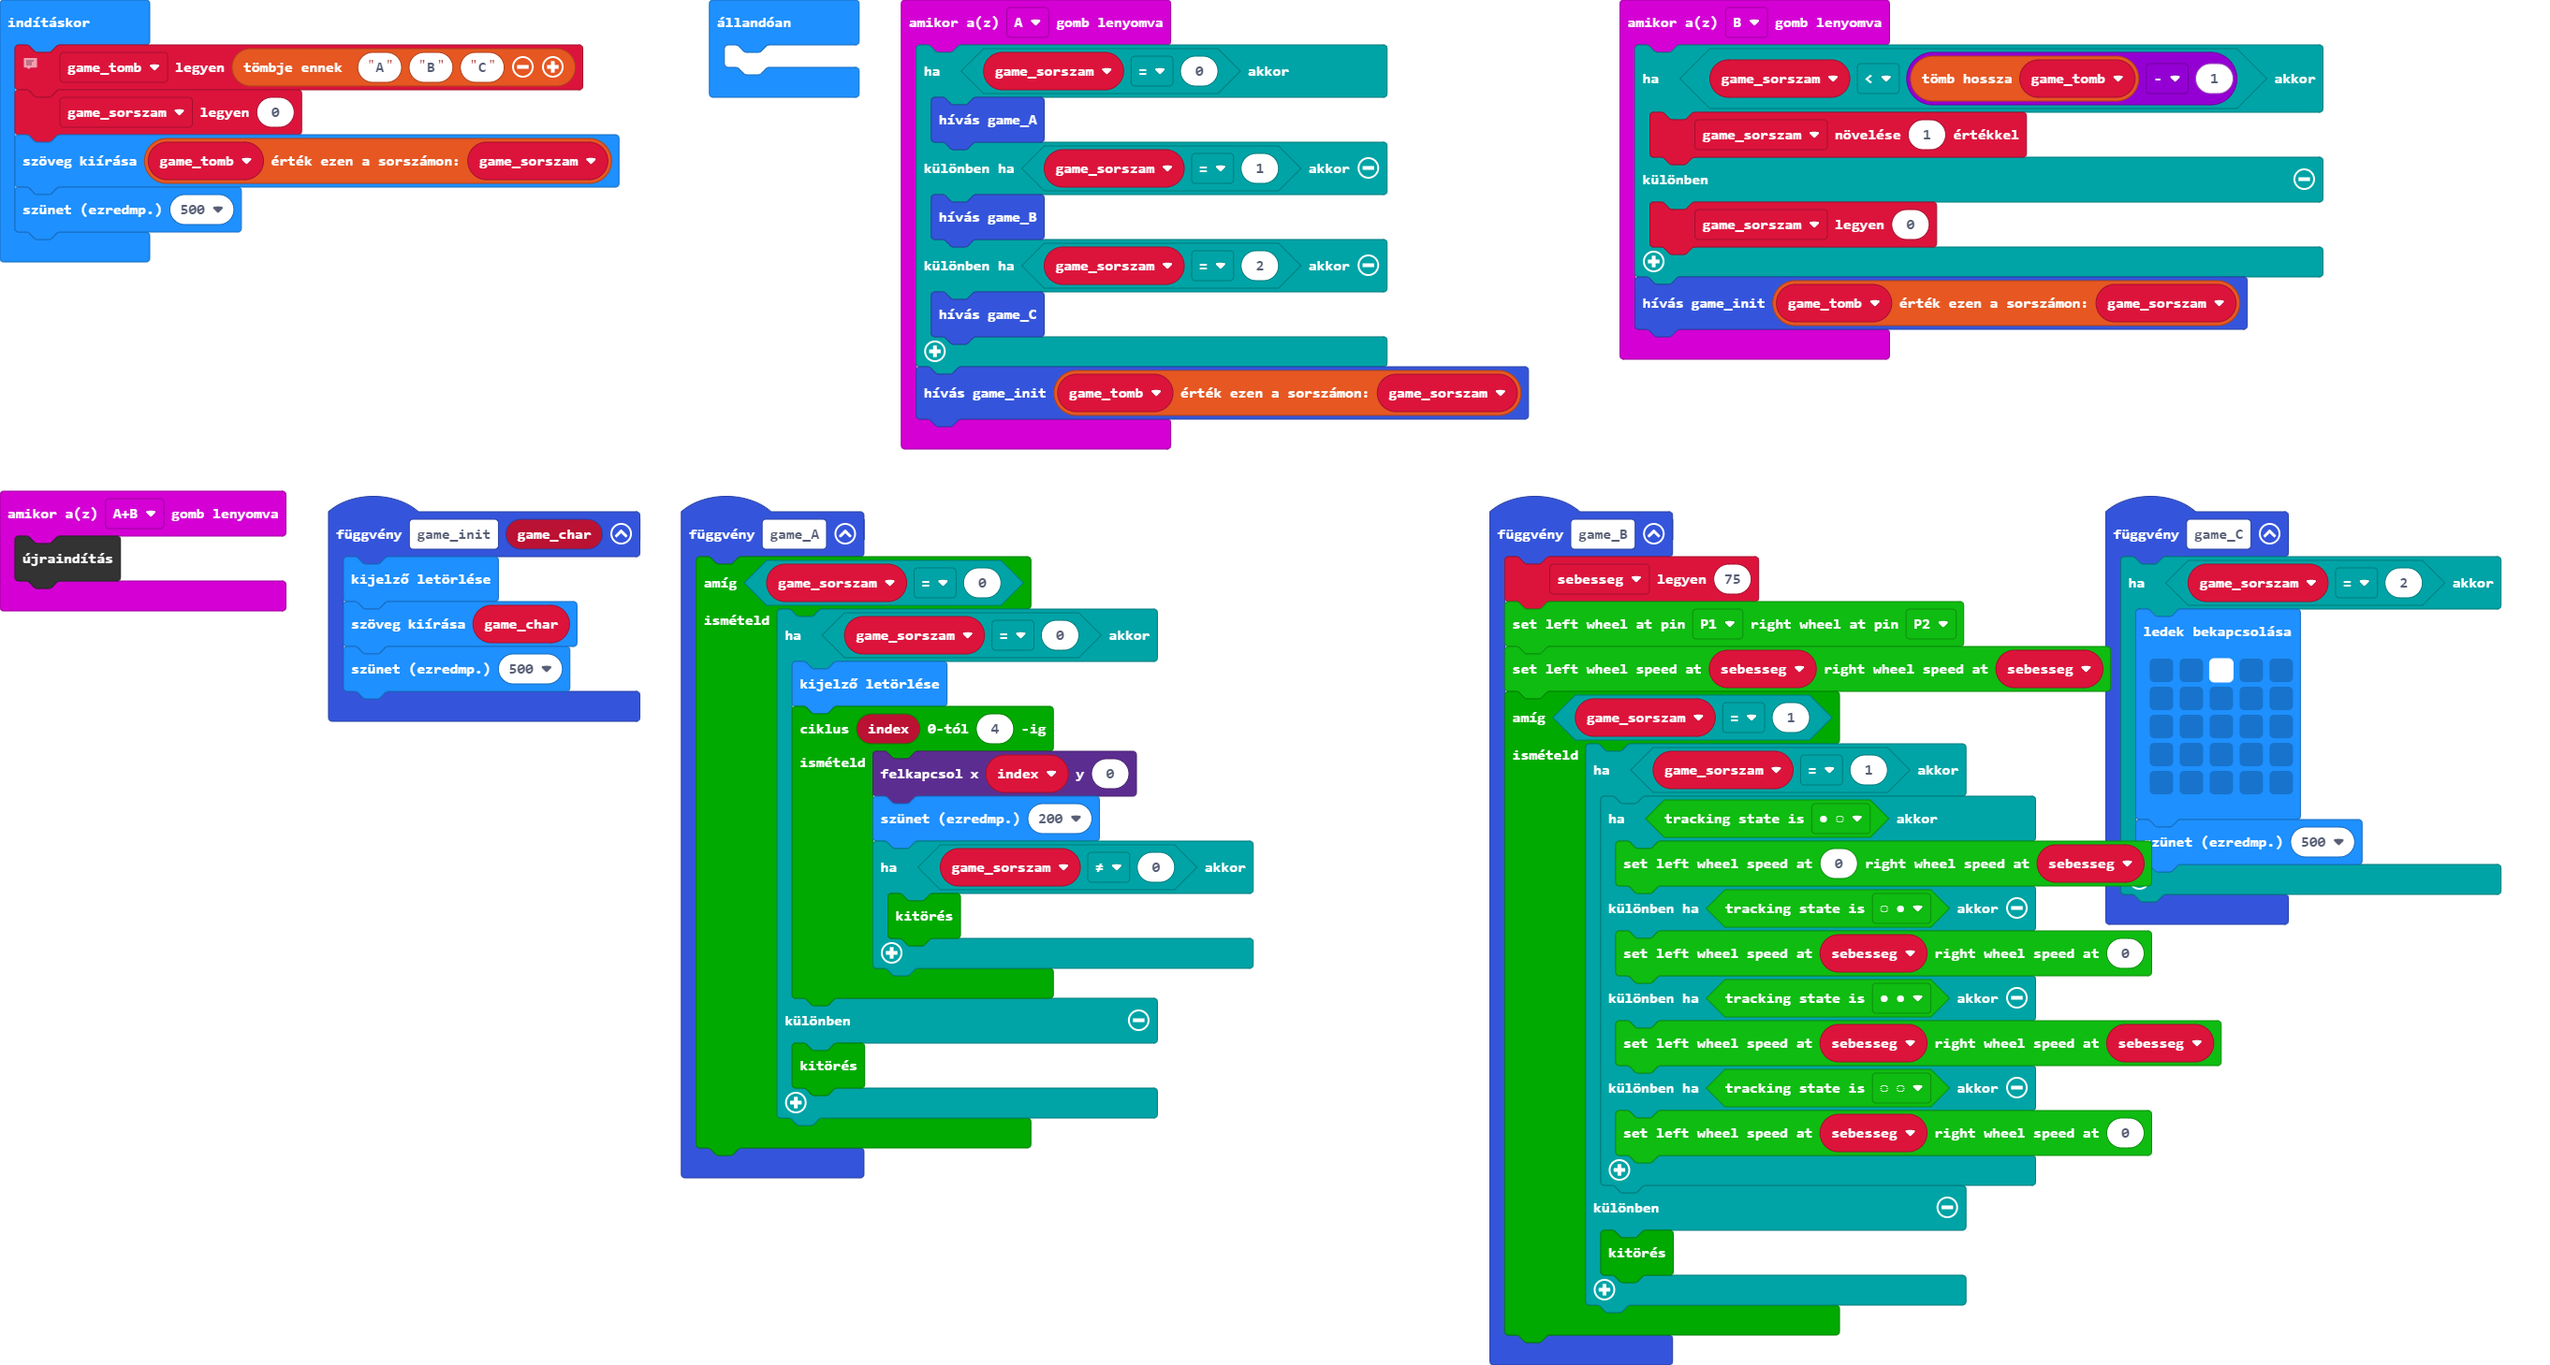
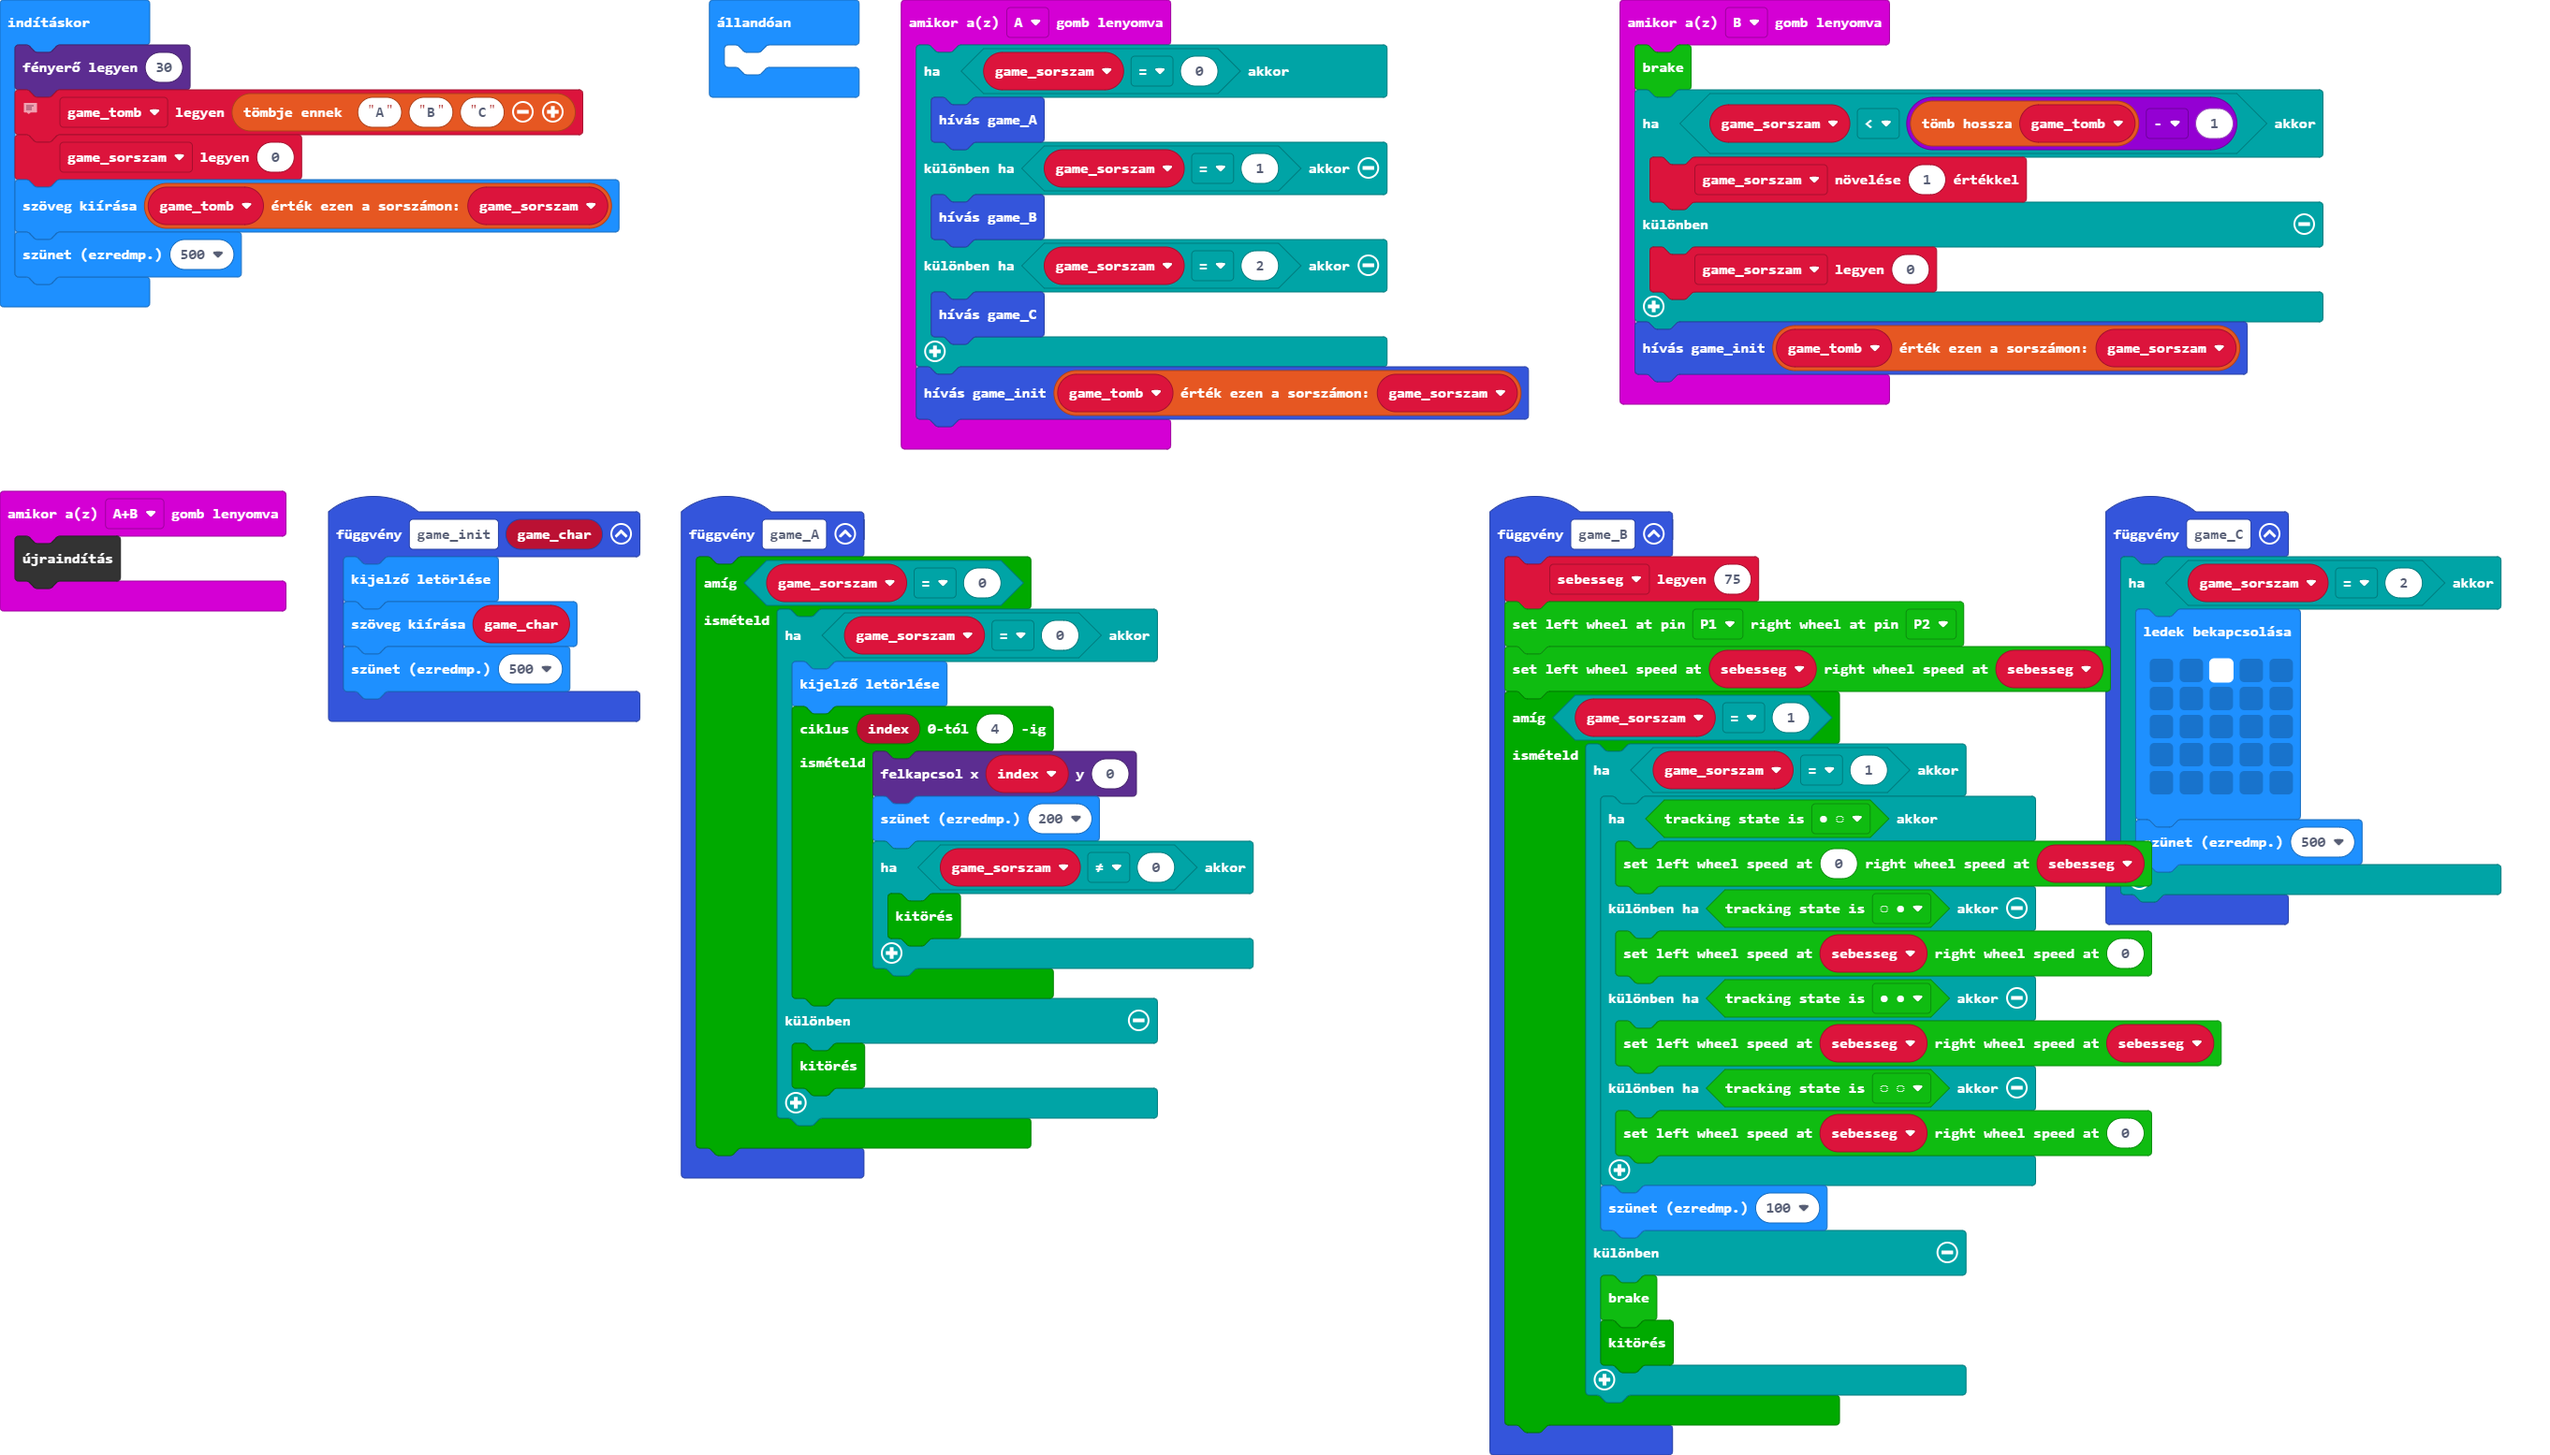
Update main.blocks, main.ts

diff --git a/main.ts b/main.ts
@@ -45,6 +45,7 @@ input.onButtonPressed(Button.AB, function () {
     control.reset()
 })
 input.onButtonPressed(Button.B, function () {
+    RingbitCar.brake()
     if (game_sorszam < game_tomb.length - 1) {
         game_sorszam += 1
     } else {
@@ -67,7 +68,9 @@ function game_B () {
             } else if (RingbitCar.tracking(RingbitCar.TrackingStateType.Tracking_State_3)) {
                 RingbitCar.freestyle(sebesseg, 0)
             }
+            basic.pause(100)
         } else {
+            RingbitCar.brake()
             break;
         }
     }
@@ -75,6 +78,7 @@ function game_B () {
 let sebesseg = 0
 let game_sorszam = 0
 let game_tomb: string[] = []
+led.setBrightness(30)
 // game_tomb = ["A", "B", "C", "D", "E", "F", "G", "H", "I", "J", "K", "L", "M", "N", "O", "P", "Q", "R", "S", "T", "U", "V", "W", "X", "Y", "Z"]
 game_tomb = ["A", "B", "C"]
 game_sorszam = 0
